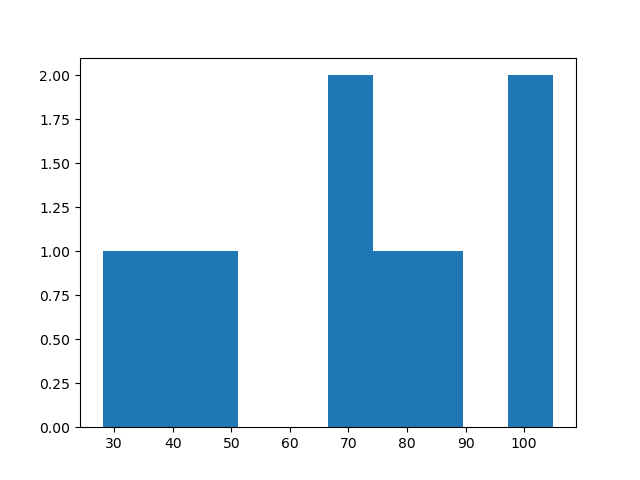
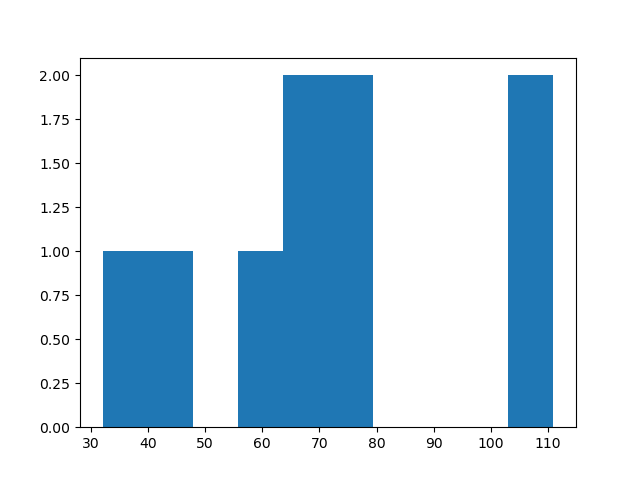
8. Hafta notları eklendi, 7. Hafta egzersizi düzeltildi, 7. Hafta egzersizi cevapları eklendi

diff --git a/Hafta 8/sekizinci-hafta-notlar.py b/Hafta 8/sekizinci-hafta-notlar.py
@@ -1,0 +1,104 @@
+# Matplotlib kütüphanesini NumPy ile kullanmak
+
+import matplotlib.pyplot as plt
+import numpy as np
+
+
+# Lineer denklem çizdirmek
+x = np.arange(1,11) 
+y = 2 * x + 5 
+plt.title("Matplotlib demo") 
+plt.xlabel("x axis caption") 
+plt.ylabel("y axis caption") 
+plt.plot(x,y) # Default olarak düz mavi çizgi
+plt.show()
+
+# Şekiller
+"""
+'-'     Solid line style	
+'--'    Dashed line style
+'-.'    Dash-dot line style
+':'     Dotted line style
+'.'     Point marker
+','     Pixel marker
+'o'     Circle marker
+'v'     Triangle_down marker
+'^'     Triangle_up marker
+'<'     Triangle_left marker
+'>'     Triangle_right marker
+'1'     Tri_down marker
+'2'     Tri_up marker
+'3'     Tri_left marker
+'4'     Tri_right marker
+'s'     Square marker
+'p'     Pentagon marker	
+'*'     Star marker
+'h'     Hexagon1 marker
+'H'     Hexagon2 marker
+'+'     Plus marker
+'x'     X marker
+'D'     Diamond marker
+'d'     Thin_diamond marker
+'|'     Vline marker
+'_'     Hline marker
+"""
+
+# Renkler
+"""
+'b'     Blue
+'g'	    Green
+'r'	    Red
+'c'	    Cyan
+'m'	    Magenta
+'y'	    Yellow
+'k'	    Black
+'w'	    White
+"""
+
+plt.title("Matplotlib demo") 
+plt.xlabel("x axis caption") 
+plt.ylabel("y axis caption") 
+plt.plot(x,y,"ob") # Daire daire, ve mavi gözükecek
+plt.show() 
+
+# Sinüs eğrisi çizdirmek
+x = np.arange(0, 10, 0.1) 
+y = np.sin(x) 
+plt.title("sine wave form") 
+
+plt.plot(x, y, 'r') 
+plt.show() 
+
+# Sinüs-kosinüs tek grafikte gösterme
+x = np.arange(0, 3 * np.pi, 0.1) 
+y_sin = np.sin(x) 
+y_cos = np.cos(x)  
+   
+# 2 row 1 columnu olan bir subplot oluştur, ilkini aktive et
+plt.subplot(2, 1, 1)
+   
+# ilk plotu çizdir
+plt.plot(x, y_sin) 
+plt.title('Sine')  
+   
+# ikinci kısmı aktive et, ikincisini çizdir
+plt.subplot(2, 1, 2) 
+plt.plot(x, y_cos) 
+plt.title('Cosine')  
+   
+plt.show()
+
+# Bar grafiği
+x = [5,8,10] 
+y = [12,16,6]  
+
+x2 = [6,9,11] 
+y2 = [6,15,7] 
+
+plt.bar(x, y, align = 'center') 
+plt.bar(x2, y2, color = 'g', align = 'center') 
+plt.title('Bar graph') 
+plt.ylabel('Y axis') 
+plt.xlabel('X axis')  
+
+plt.show()

diff --git a/Hafta 7/yedinci-hafta-egzersiz-cevaplar.py b/Hafta 7/yedinci-hafta-egzersiz-cevaplar.py
@@ -1,0 +1,40 @@
+import numpy as np    
+import matplotlib.pyplot as plt
+np.random.seed(42)
+
+
+def isNumpyArrayIncludeDuplicate(twodimarr):
+    including_list = list()
+
+    for arr in twodimarr:
+        for element in arr:
+                if element in including_list:
+                    return True
+                else:
+                    including_list.append(element)
+    return False
+
+a = None
+b = None
+
+while True:
+    #assert not (a == np.random.randint(0,10, size=(3,3))).all(), "a aynı çıktı"
+    a = np.random.randint(0,10, size=(3,3))
+    if isNumpyArrayIncludeDuplicate(a):
+        continue
+    
+    #assert not (b == np.random.randint(0,10, size=(3,3))).all(), "b aynı çıktı"
+    b = np.random.randint(0,10, size=(3,3))
+    if isNumpyArrayIncludeDuplicate(b):
+        continue
+    
+    break
+
+c = np.dot(a, b)
+
+c = c.reshape(9)
+
+import matplotlib.pyplot as plt 
+plt.hist(c)
+plt.show()
+
